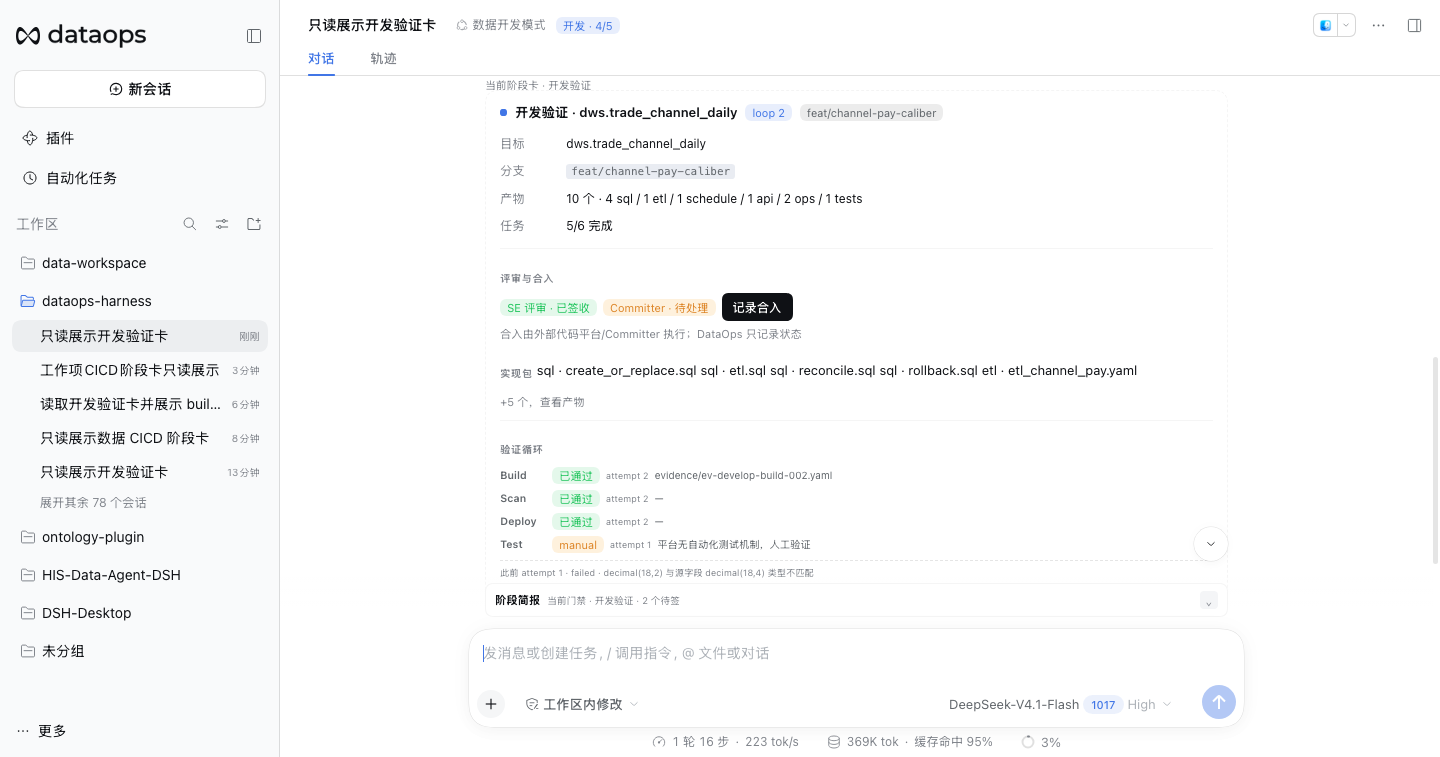
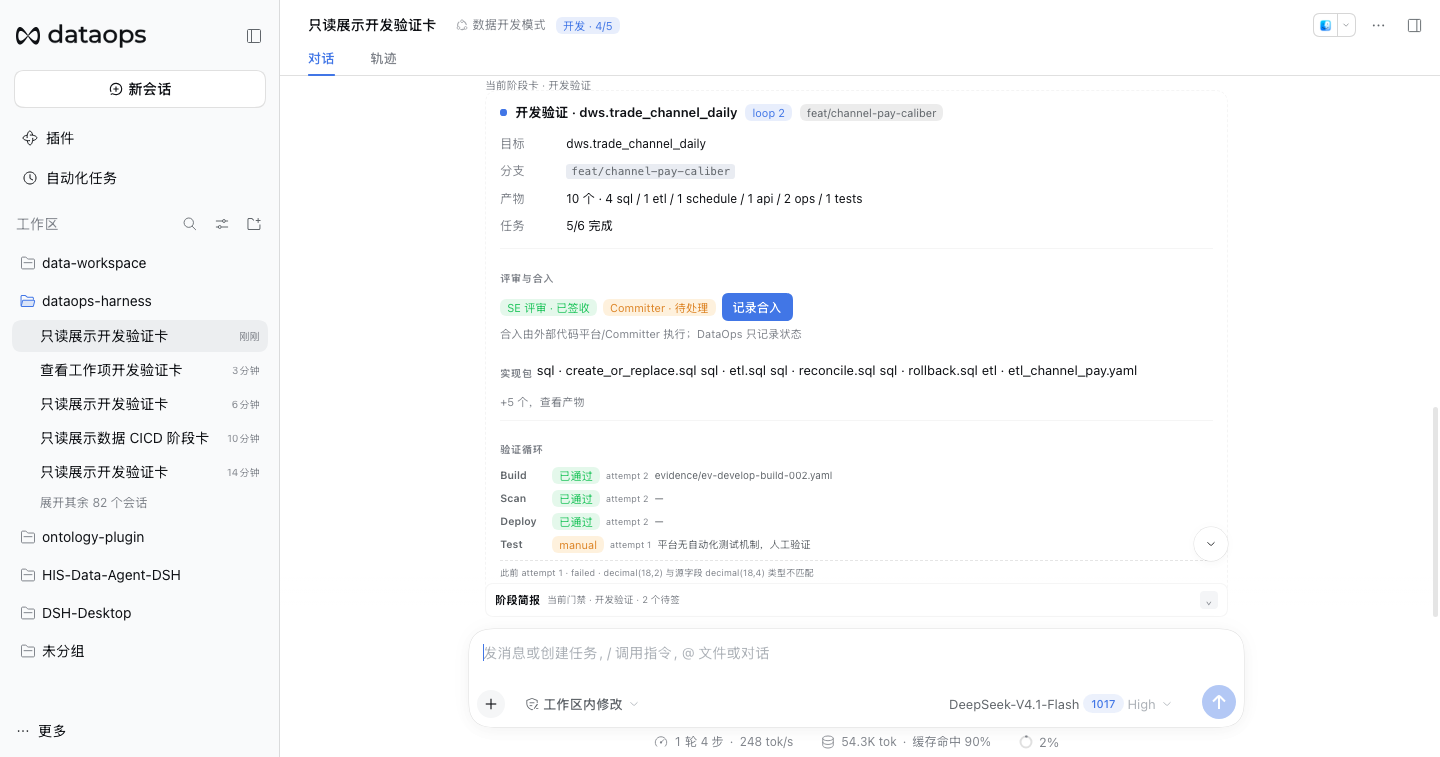
style: use business primary tone for card actions

diff --git a/packages/dataops-client/src/cards.js b/packages/dataops-client/src/cards.js
@@ -41,8 +41,10 @@ export function createDataopsCards(React) {
     '.do-foot{display:flex;align-items:center;gap:8px;flex-wrap:wrap;border-top:1px solid var(--dsw-alias-border-l1,rgba(0,0,0,.06));margin:10px -14px -11px;padding:10px 14px;background:var(--dsw-alias-bg-base,#f9fafb)}',
     '.do-foot .do-meta{margin-right:auto}',
     '.do-btn{height:28px;padding:0 10px;border-radius:var(--dsw-radius-sm,8px);border:1px solid var(--dsw-alias-border-l2,rgba(0,0,0,.1));background:var(--dsw-alias-bg-layer-1,#fff);color:var(--dsw-alias-label-primary,#0f1115);font-size:12px;font-weight:500;cursor:pointer}',
-    '.do-btn[data-variant=primary]{background:var(--dsw-alias-brand-primary,#0f1115);color:var(--dsw-alias-label-primary-foreground,#fff);border-color:transparent}',
-    '.do-btn[data-variant=ghost]{background:transparent;border-color:transparent;color:var(--dsw-alias-label-secondary,#61666b)}',
+    '.do-btn[data-variant=primary]{background:var(--dsw-alias-state-business-primary,#4176e6);color:var(--dsw-alias-label-primary-foreground,#fff);border-color:transparent}'
+    ,'.do-btn:hover{background:var(--dsw-alias-bg-l2,#f4f5f7)}'
+    ,'.do-btn[data-variant=primary]:hover{background:var(--dsw-alias-state-business-primary,#315efb);filter:brightness(1.04)}'
+    ,'.do-btn[data-variant=ghost]{background:transparent;border-color:transparent;color:var(--dsw-alias-label-secondary,#61666b)}',
     '.do-kv{display:flex;gap:6px;flex-wrap:wrap;align-items:center}',
     '.do-empty{padding:8px 0;font-size:12px;color:var(--dsw-alias-label-tertiary,#81858c)}',
     '.do-ctx{border:1px solid var(--dsw-alias-border-l1,rgba(0,0,0,.06));border-radius:var(--dsw-radius-md,12px);padding:10px 11px;margin:6px 0;background:var(--dsw-alias-bg-layer-1,#fff)}',
